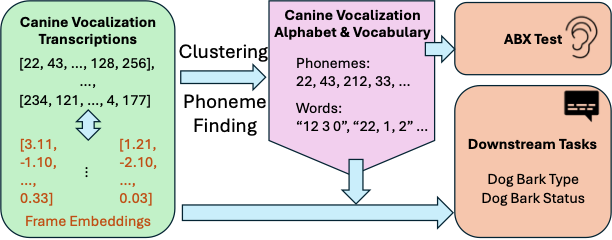
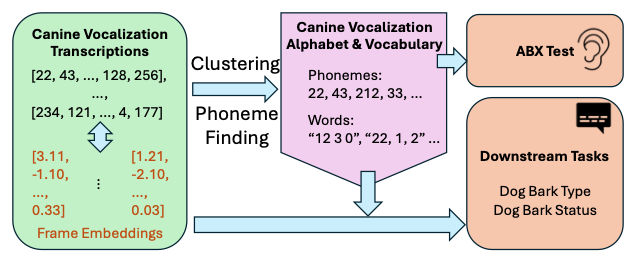
update figures in readme file

diff --git a/README.md b/README.md
@@ -198,7 +198,7 @@ We tried K ∈ {1, 3, 5} and the 5th/10th/15th percentiles, and selected K = 5 a
 <details>
 <summary><b>📈 Figure 6: the 200 most frequent vocal patterns follow Zipf's law</b></summary>
 <div align="center">
-<img src="evaluation/vocal_patterns/results/figure6_zipf.png" width="55%" alt="Rank distribution of the top 200 vocal patterns vs. Zipf's law">
+<img src="assets/zipf.png" width="55%" alt="Rank distribution of the top 200 vocal patterns vs. Zipf's law">
 </div>
 </details>
 
